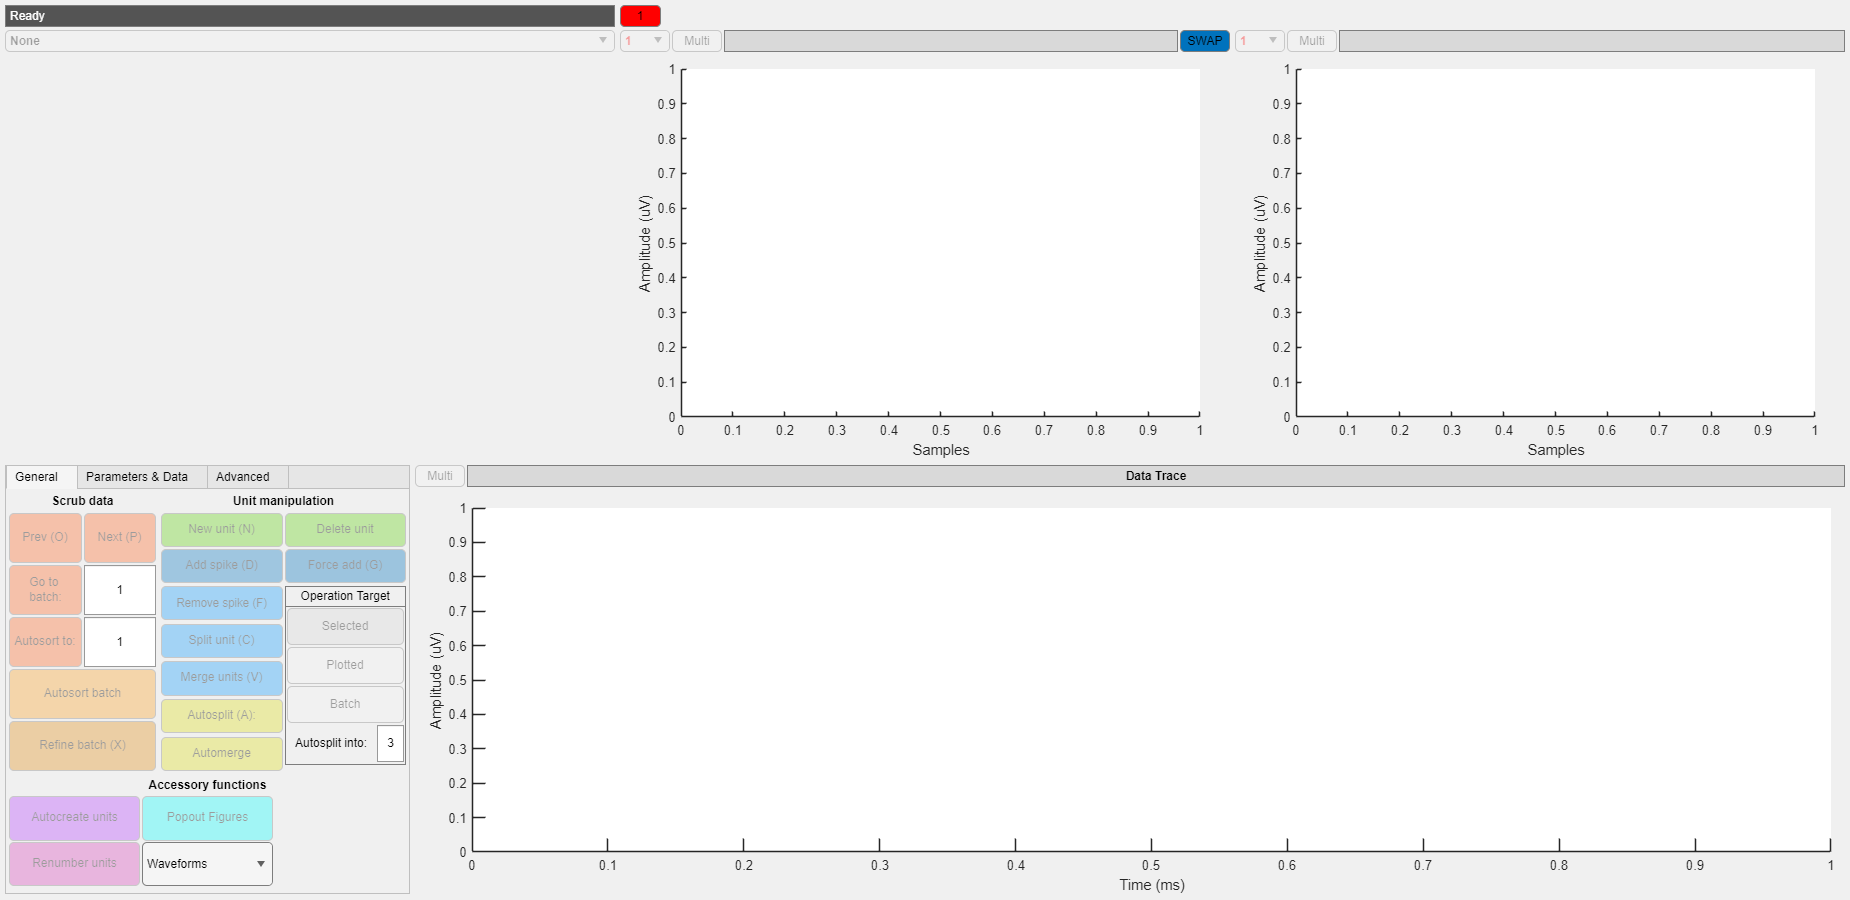
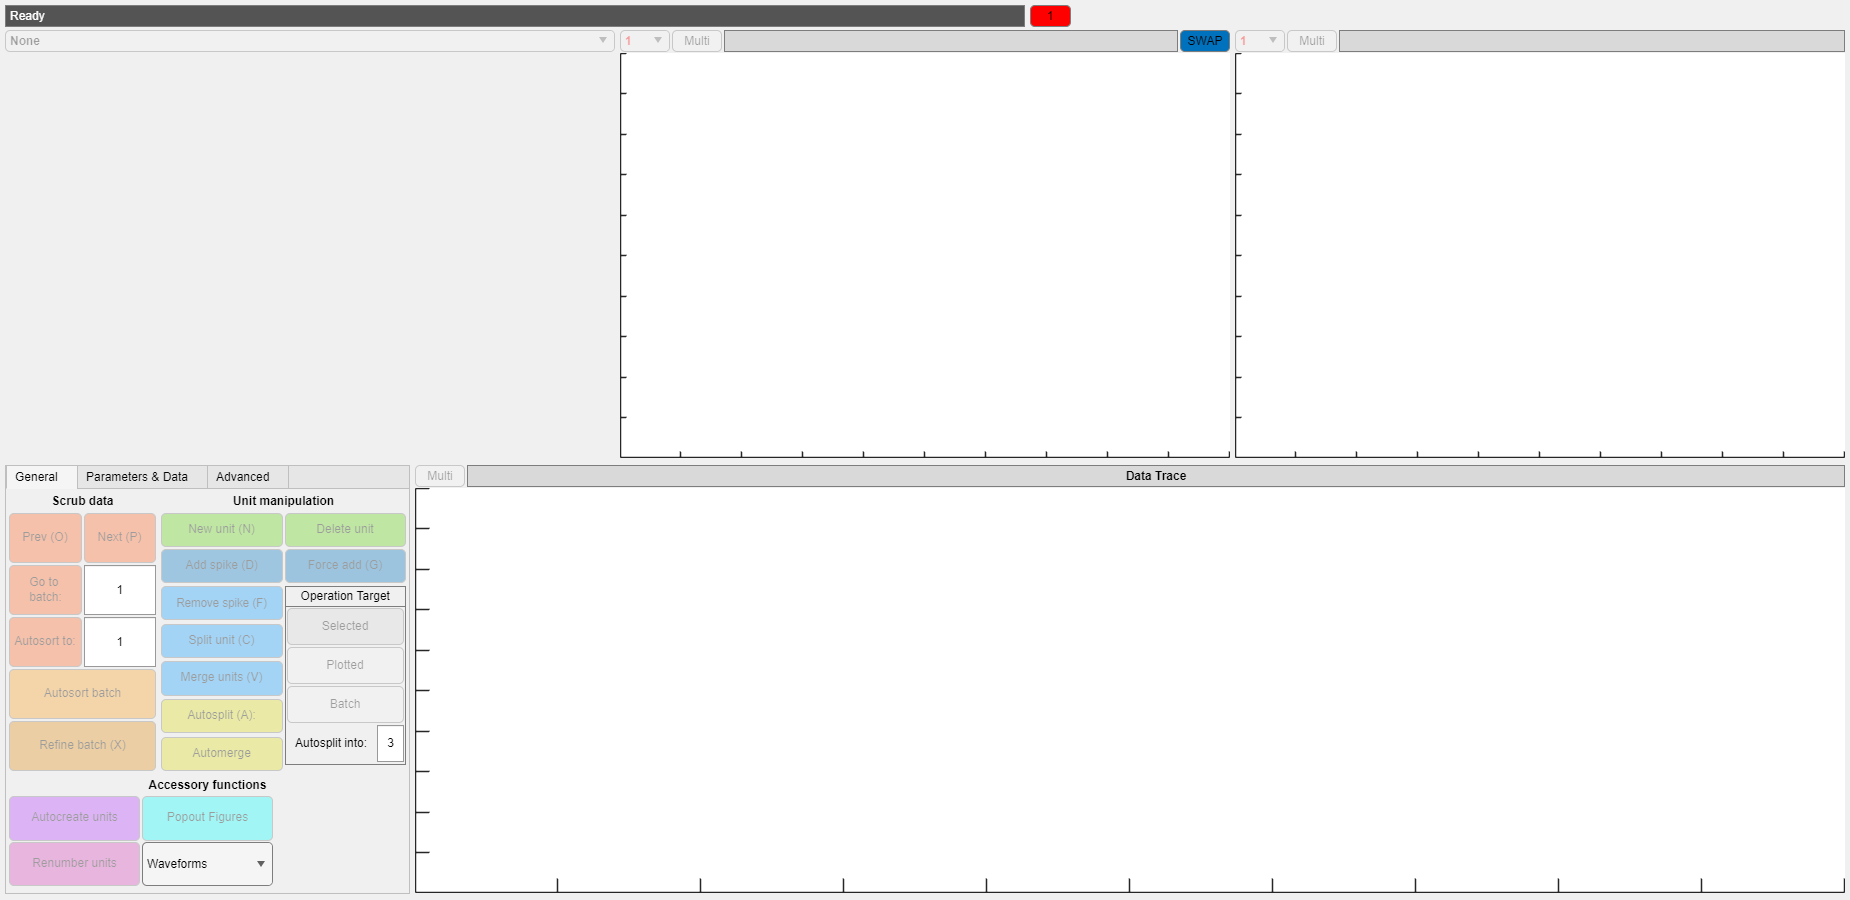
fixes to variable changes and rearranged showISI elements

diff --git a/@spikesortGUI/setupUserdata.m b/@spikesortGUI/setupUserdata.m
@@ -23,25 +23,25 @@ app.LPanMenu.UserData = 'l';
 app.LPointerMenu.UserData = 'l';
 
 % basic ops
-app.RemovespikeMenu.UserData.fnc = @spikeRemover;
+app.RemovespikeMenu.UserData.fcn = @spikeRemover;
 app.RemovespikeMenu.UserData.label = "remove";
-app.RemovespikeButton.UserData.fnc = @spikeRemover;
+app.RemovespikeButton.UserData.fcn = @spikeRemover;
 app.RemovespikeButton.UserData.label = "remove";
-app.SplitMenu.UserData.fnc = @unitSplitter;
+app.SplitMenu.UserData.fcn = @unitSplitter;
 app.SplitMenu.UserData.label ="split";
-app.SplitButton.UserData.fnc = @unitSplitter;
+app.SplitButton.UserData.fcn = @unitSplitter;
 app.SplitButton.UserData.label ="split";
-app.MergeMenu.UserData.fnc = @unitMerger;
+app.MergeMenu.UserData.fcn = @unitMerger;
 app.MergeMenu.UserData.label = "merge";
-app.MergeButton.UserData.fnc = @unitMerger;
+app.MergeButton.UserData.fcn = @unitMerger;
 app.MergeButton.UserData.label = "merge";
-app.AutosplitMenu.UserData.fnc = @unitSplitter;
+app.AutosplitMenu.UserData.fcn = @unitSplitter;
 app.AutosplitMenu.UserData.label = "split";
-app.AutosplitButton.UserData.fnc = @unitSplitter;
+app.AutosplitButton.UserData.fcn = @unitSplitter;
 app.AutosplitButton.UserData.label = "split";
-app.AutomergeMenu.UserData.fnc = @unitMerger;
+app.AutomergeMenu.UserData.fcn = @unitMerger;
 app.AutomergeMenu.UserData.label = "merge";
-app.AutomergeButton.UserData.fnc = @unitMerger;
+app.AutomergeButton.UserData.fcn = @unitMerger;
 app.AutomergeButton.UserData.label = "merge";
 
 

diff --git a/@spikesortGUI/setupFigures.m b/@spikesortGUI/setupFigures.m
@@ -1,27 +1,31 @@
 function [] = setupFigures(app)
+app.dataPanel.AutoResizeChildren = 'off';
 xlabel(app.traceAx, 'Time (ms)')
 ylabel(app.traceAx, 'Amplitude (uV)')
 app.traceAx.FontName = 'Arial';
-app.traceAx.Position = [0.04, 0.1, 0.95, 0.85];
+app.traceAx.Units = 'normalized';
+app.traceAx.Position = [0.03, 0.1, 0.96, 0.85];
 app.traceAx.Toolbar.Visible = 'off';
 app.traceAx.UserData.selectedUnassigned = [];
 app.traceAx.UserData.interactionType = 'n';
 disableDefaultInteractivity(app.traceAx)
 
+app.LPanel.AutoResizeChildren = 'off';
 xlabel(app.leftUnitAx, 'Samples')
-ylabel(app.leftUnitAx, 'Amplitude (uV)')
 app.leftUnitAx.FontName = 'Arial';
-app.leftUnitAx.Position = [0.1, 0.1, 0.85, 0.86];
+app.leftUnitAx.Units = 'normalized';
+app.leftUnitAx.Position = [0.05, 0.1, 0.92, 0.85];
 app.leftUnitAx.Toolbar.Visible = 'off';
 app.leftUnitAx.UserData.selectedIdx = [];
 app.leftUnitAx.UserData.inBatchIdx = [];
 app.leftUnitAx.UserData.interactionType = 'n';
 disableDefaultInteractivity(app.leftUnitAx)
 
+app.RPanel.AutoResizeChildren = 'off';
 xlabel(app.rightUnitAx, 'Samples')
-ylabel(app.rightUnitAx, 'Amplitude (uV)')
 app.rightUnitAx.FontName = 'Arial';
-app.rightUnitAx.Position = [0.1, 0.1, 0.85, 0.86];
+app.rightUnitAx.Units = 'normalized';
+app.rightUnitAx.Position = [0.05, 0.1, 0.92, 0.85];
 app.rightUnitAx.Toolbar.Visible = 'off';
 disableDefaultInteractivity(app.rightUnitAx)
 

diff --git a/@spikesortGUI/showISI.m b/@spikesortGUI/showISI.m
@@ -44,12 +44,6 @@ if ~isSameMetric
     violationThrField.Layout.Column = 2;
     violationThrField.Layout.Row = 2;
 
-    slider = uislider(app.Metrics.controlGridArr(uiPos), "range", ...
-        'Value',[1 100], 'Limits',[0 100],...
-        'ValueChangingFcn',{@scrubSliderMoving, ax});
-    slider.Layout.Row = 1;
-    slider.Layout.Column = [1 3];
-
     if strcmp(whichSide, 'left')
         autosplitButton = uibutton(app.Metrics.controlGridArr(uiPos),...
             'Text', 'Autosplit violations below (ms):',...
@@ -57,6 +51,13 @@ if ~isSameMetric
         autosplitButton.Layout.Column = 1;
         autosplitButton.Layout.Row = 2;
     end
+
+    slider = uislider(app.Metrics.controlGridArr(uiPos), "range", ...
+        'Value',[1 100], 'Limits',[0 100],...
+        'ValueChangingFcn',{@scrubSliderMoving, ax});
+    slider.Layout.Row = 1;
+    slider.Layout.Column = [1 3];
+
 else
     app.Metrics.controlGridArr(uiPos).Children(1).Text =...
          "# violations: " + string(sum(ISI ...

diff --git a/@spikesortGUI/dataFeatureSorter.m b/@spikesortGUI/dataFeatureSorter.m
@@ -88,7 +88,7 @@ end
 
 function ROIClick(~, ~, app, choices, sldr, posData, selection)
 %return if interaction happening with the left figure
-if app.interactingFlag(1) ~= 0
+if app.leftUnitAx.UserData.interactionType ~= 'n'
     return;
 end
 

diff --git a/@spikesortGUI/clickedAssigned.m b/@spikesortGUI/clickedAssigned.m
@@ -3,7 +3,7 @@ function clickedAssigned(app,src,evt)
 if ~strcmp(app.LeftUnitDropDown.Value, string(src.UserData.uIdx))
     return;
 end
-if app.interactingFlag(1) ~= 0
+if app.leftUnitAx.UserData.interactionType ~= 'n'
     return;
 end
 

diff --git a/@spikesortGUI/manualArtifactRemover.m b/@spikesortGUI/manualArtifactRemover.m
@@ -43,7 +43,7 @@ end
 
 %% callback
 function selectTimeblock(~,evt,app,h)
-if app.interactingFlag(1)
+if app.leftUnitAx.UserData.interactionType  ~= 'n'
     return;
 end
 % get clicked coordinates

diff --git a/@spikesortGUI/clickedUnassigned.m b/@spikesortGUI/clickedUnassigned.m
@@ -1,5 +1,5 @@
 function clickedUnassigned(app,~,evt,h)
-if app.interactingFlag(1) ~= 0
+if app.leftUnitAx.UserData.interactionType ~= 'n'
     return;
 end
 u = evt.IntersectionPoint;

diff --git a/@spikesortGUI/updateAssignedSelection.m b/@spikesortGUI/updateAssignedSelection.m
@@ -1,5 +1,5 @@
 function [] = updateAssignedSelection(app, selection)
-if app.interactingFlag(2) ~= 0
+if app.traceAx.UserData.interactionType ~= 'n'
     return;
 end
 
